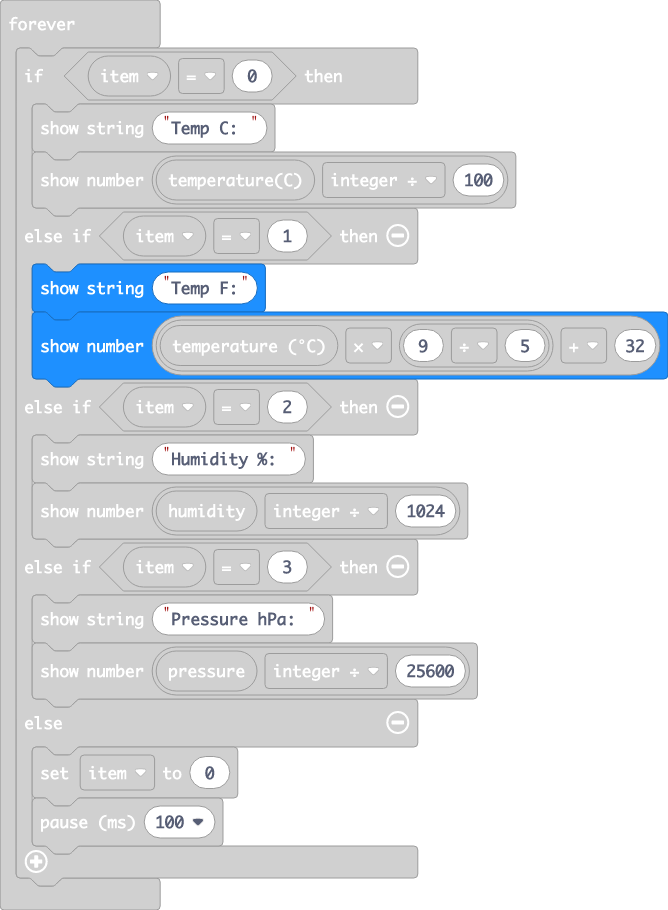
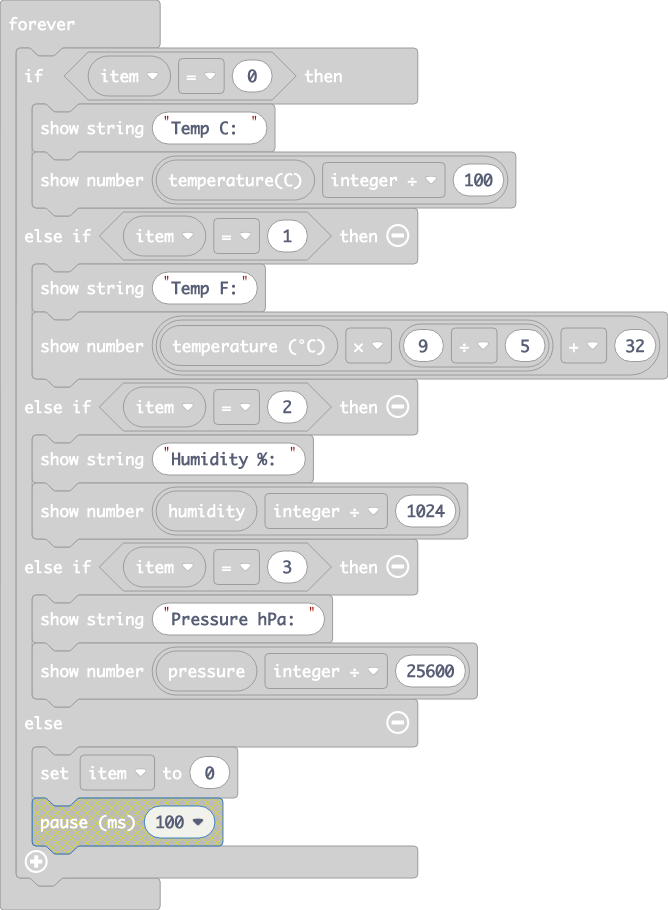
Update main.blocks, main.ts

Changed region(s): [[0.0299, 0.2769, 1.0, 0.4308], [0.0299, 0.8615, 0.3593, 0.9538]]

diff --git a/main.ts b/main.ts
@@ -18,6 +18,5 @@ basic.forever(function () {
         basic.showNumber(Math.idiv(weatherbit.pressure(), 25600))
     } else {
         item = 0
-        basic.pause(100)
     }
 })
